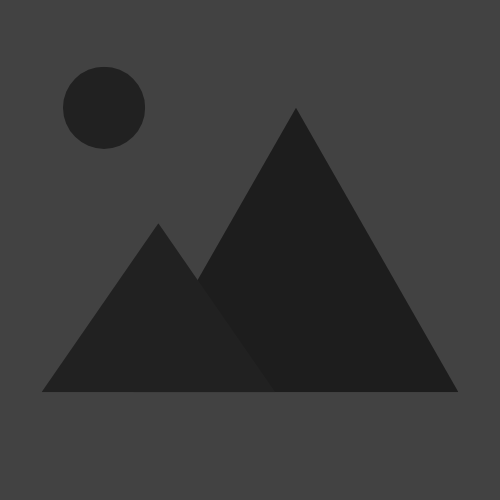
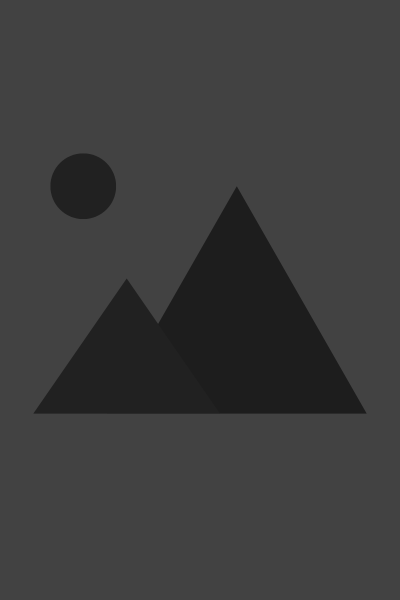
Updated the placeholder and changed the section colors

diff --git a/src/pages/Home/UpcomingMovies.jsx b/src/pages/Home/UpcomingMovies.jsx
@@ -52,7 +52,7 @@ export const UpcomingMovies = () => {
       exit='exit'
       variants={mainDivVariants}
       transition={{ duration: 0.5, ease: "easeInOut" }}
-      className='w-full h-fit p-4 bg-cyan-800 rounded-lg'
+      className='w-full h-fit p-4 bg-cyan-900 rounded-lg'
     >
       <h1 className='text-xl font-semibold'>Upcoming Movies</h1>
       <div className='w-full h-fit overflow-x-auto overflow-y-hidden whitespace-nowrap py-4 scrollbar-thin scrollbar-track-cyan-900 scrollbar-thumb-cyan-950 scrollbar-track-rounded-lg scrollbar-thumb-rounded-lg'>

diff --git a/src/pages/Home/PopularMovies.jsx b/src/pages/Home/PopularMovies.jsx
@@ -52,7 +52,7 @@ export const PopularMovies = () => {
       exit='exit'
       variants={mainDivVariants}
       transition={{ duration: 0.5, ease: "easeInOut" }}
-      className='w-full h-fit p-4 bg-cyan-800 rounded-lg'
+      className='w-full h-fit p-4 bg-cyan-900 rounded-lg'
     >
       <h1 className='text-xl font-semibold'>Popular Movies</h1>
       <div className='w-full h-fit overflow-x-auto overflow-y-hidden whitespace-nowrap py-4 scrollbar-thin scrollbar-track-cyan-900 scrollbar-thumb-cyan-950 scrollbar-track-rounded-lg scrollbar-thumb-rounded-lg'>

diff --git a/src/pages/DetailedPage/CastSection.jsx b/src/pages/DetailedPage/CastSection.jsx
@@ -36,7 +36,7 @@ export const CastSection = ({ id }) => {
       exit='exit'
       variants={mainDivVariants}
       transition={{ duration: 0.5, ease: "easeInOut" }}
-      className='w-full h-fit p-4 bg-cyan-800 rounded-lg'
+      className='w-full h-fit p-4 bg-cyan-900 rounded-lg'
     >
       <h1 className='text-xl font-semibold'>Cast</h1>
       <div className='w-full h-fit overflow-x-auto overflow-y-hidden whitespace-nowrap py-4 scrollbar-thin scrollbar-track-cyan-900 scrollbar-thumb-cyan-950 scrollbar-track-rounded-lg scrollbar-thumb-rounded-lg'>

diff --git a/src/pages/Home/NowPlaying.jsx b/src/pages/Home/NowPlaying.jsx
@@ -52,7 +52,7 @@ export const NowPlaying = () => {
       exit='exit'
       variants={mainDivVariants}
       transition={{ duration: 0.5, ease: "easeInOut" }}
-      className='w-full h-fit p-4 bg-cyan-800 rounded-lg'
+      className='w-full h-fit p-4 bg-cyan-900 rounded-lg'
     >
       <h1 className='text-xl font-semibold'>Now Playing</h1>
       <div className='w-full h-fit overflow-x-auto overflow-y-hidden whitespace-nowrap py-4 scrollbar-thin scrollbar-track-cyan-900 scrollbar-thumb-cyan-950 scrollbar-track-rounded-lg scrollbar-thumb-rounded-lg'>

diff --git a/src/pages/Home/TopRated.jsx b/src/pages/Home/TopRated.jsx
@@ -51,7 +51,7 @@ export const TopRated = () => {
       exit='exit'
       variants={mainDivVariants}
       transition={{ duration: 0.5, ease: "easeInOut" }}
-      className='w-full h-fit p-4 bg-cyan-800 rounded-lg'
+      className='w-full h-fit p-4 bg-cyan-900 rounded-lg'
     >
       <h1 className='text-xl font-semibold'>Top Rated</h1>
       <div className='w-full h-fit overflow-x-auto overflow-y-hidden whitespace-nowrap py-4 scrollbar-thin scrollbar-track-cyan-900 scrollbar-thumb-cyan-950 scrollbar-track-rounded-lg scrollbar-thumb-rounded-lg'>
